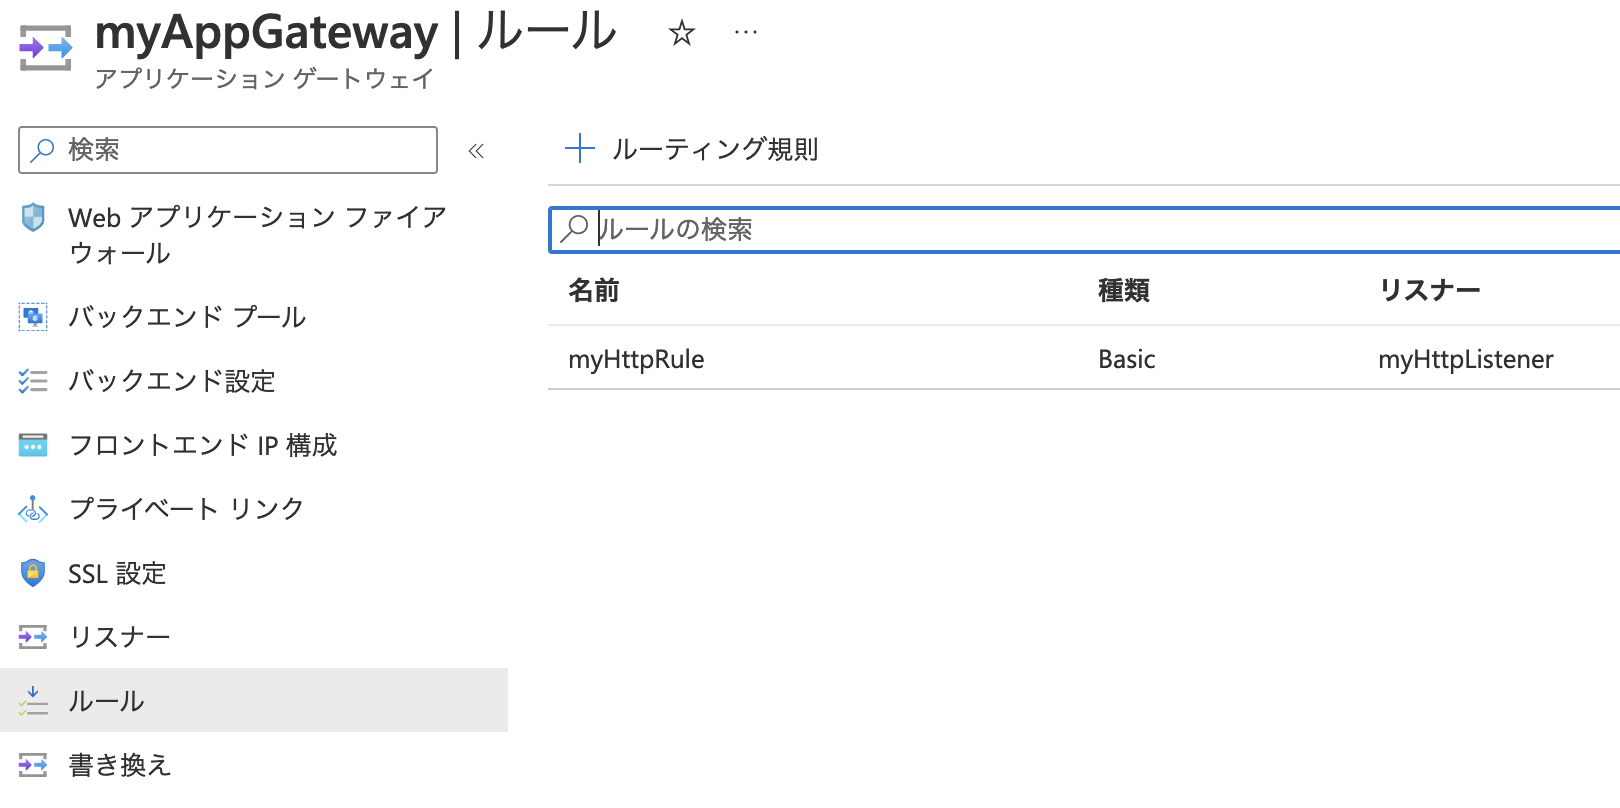
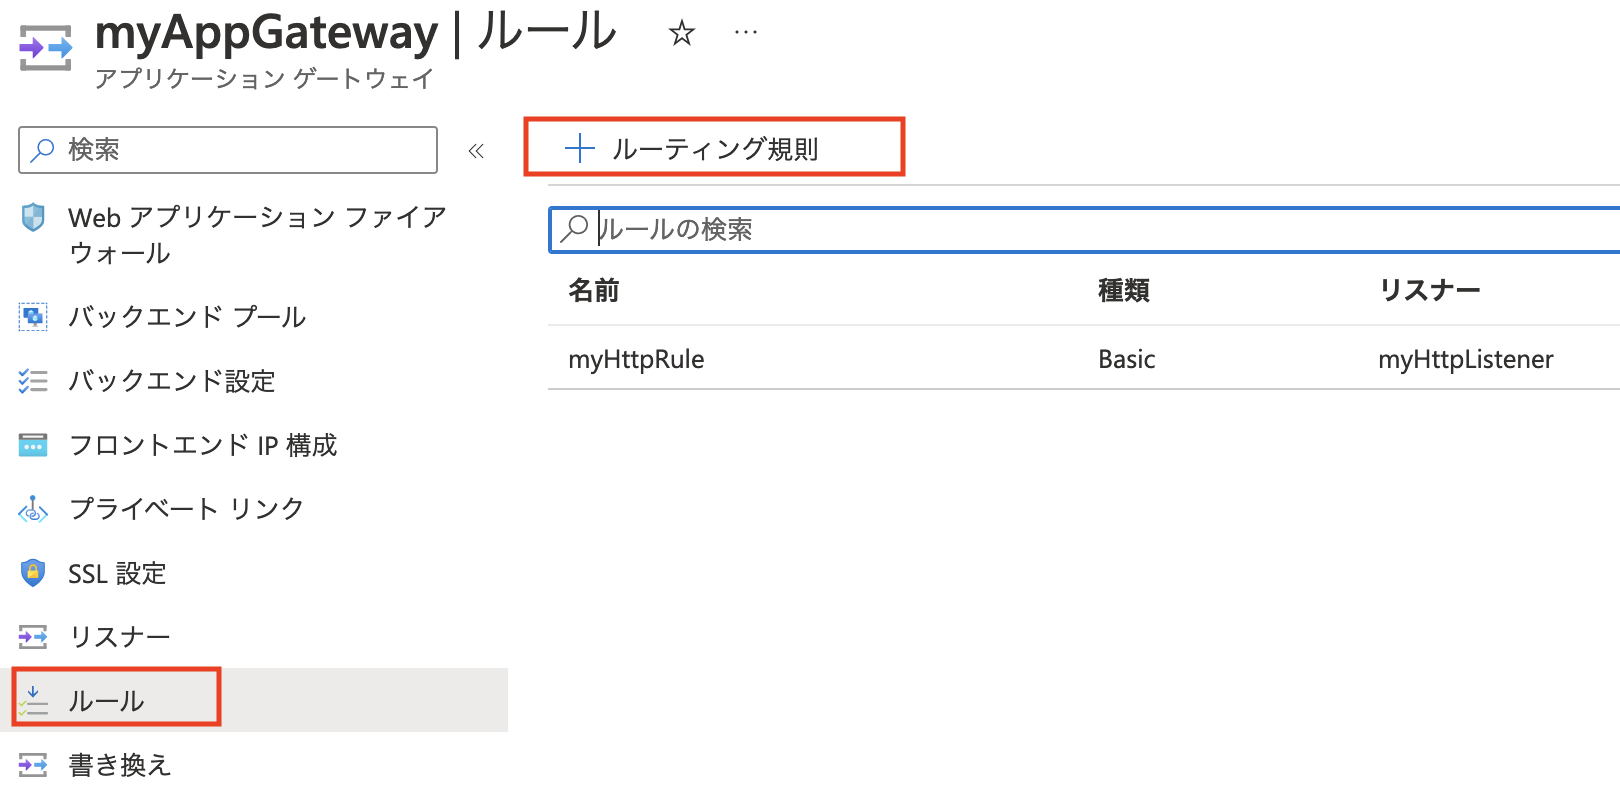
delete old routing

Changed region(s): [[0.3086, 0.1238, 0.5864, 0.2166], [0.0, 0.8045, 0.1543, 0.8973]]

diff --git a/articles/azure-bootcamp-3-2-dsn-lets-encrypt.md b/articles/azure-bootcamp-3-2-dsn-lets-encrypt.md
@@ -288,6 +288,9 @@ Azure Portal上で、作成済みのApplication Gatewayを表示します。
 
 引き続きAzure Portal上でApplication Gatewayの設定を行います。
 
+![ルール](/images/azure_appgateway_rule.png =400x)
+
+
 - 左のメニューから「ルール」をクリック
 - [+ルーティング規則]ボタンをクリック
 - 「ルーティング規則の追加」パネルが表示される
@@ -295,10 +298,19 @@ Azure Portal上で、作成済みのApplication Gatewayを表示します。
   - 優先度 ... 100
   - 「リスナー」タブをクリック
     -　リスナー ... 先ほど作った「dummyListener」を選択
+
+![ルール](/images/azure_appgateway_add_rule_panel1.png =400x)
+
+- 「ルーティング規則の追加」パネルでの操作を継続
   - 「バックエンドターゲット」タブをクリック
     - ターゲットの種類 ... 「バックエンドプール」を選択
     - バックエンドターゲット ... 元々作ってあった「myBackendPool」を指定
     - バックエンド設定 ... 元々作ってあった「myHttpSetting」を指定
+
+![ルール](/images/azure_appgateway_add_rule_panel2_backend.png =400x)
+
+- 「ルーティング規則の追加」パネルでの操作を継続
+  - 「バックエンドターゲット」タブでの操作を継続
     - パスベースの規則
       - 「パス ベースの規則を作成するには複数のターゲットを追加します」をクリック
       - パスの指定画面が表示される
@@ -312,11 +324,24 @@ Azure Portal上で、作成済みのApplication Gatewayを表示します。
   - 「ルーティング規則」の一覧に戻る
     - ※この段階で、 http://_指定したDNS名_.japaneast.cloudapp.azure.com:8080/ にアクセスできるはず
 
+![パス指定](/images/azure_appgateway_add_rule_panel3_addpath.png =400x)
+
+ここまでの設定が終わるとブラウザで次のURLにアクセスできるようになっています。
+
+- http://_FQDN名_:8080/ あるいは
+- http://_指定したDNS名_.japaneast.cloudapp.azure.com:8080/
+
+
 ### 元のルーティング規則を削除
 
+Azure Portal上でApplication Gatewayの設定を続けます。
 
-    - ルールの一覧から、元々あった「myHttpRule」の右端の「…」のメニューから、「削除」をクリック
-      - 元の「myHttpRule」が削除され、元々あった「myHttpListner」が使えるようになる
+- 左のメニューから「ルール」をクリック
+  - ルールの一覧から、元々あった「myHttpRule」の右端の「…」のメニューから、「削除」をクリック
+  - 元の「myHttpRule」が削除され、元々あった「myHttpListner」が使えるようになる
+
+![ルールの削除](/images/azure_appgateway_rule_list_delete.png =400x)
+
 
 ### 新しいルーティング規則を変更
 
